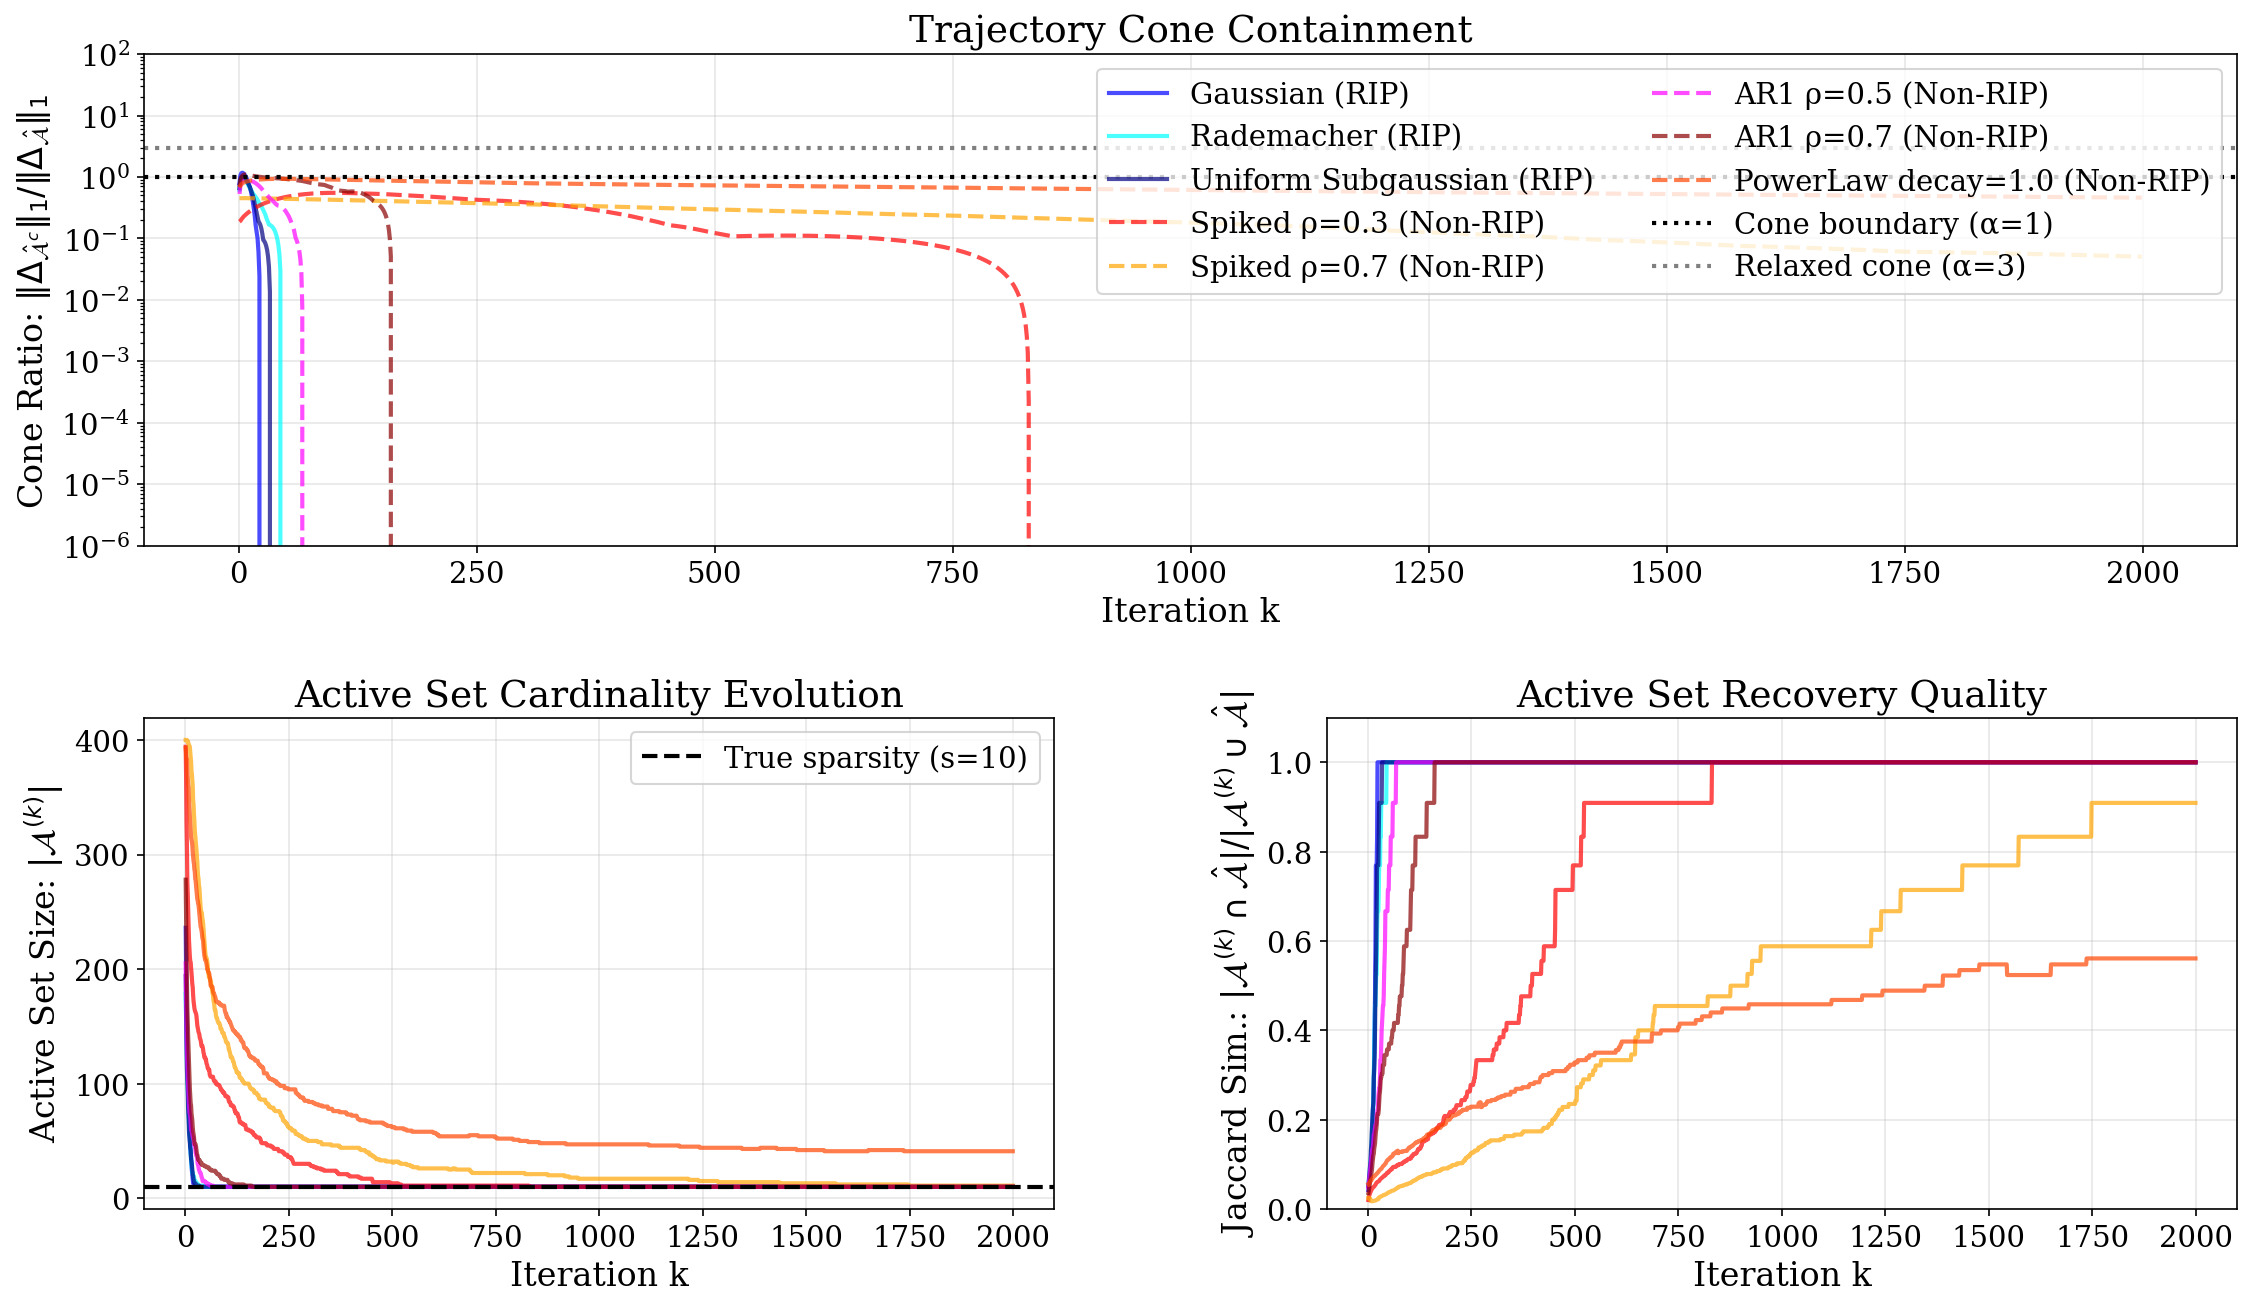
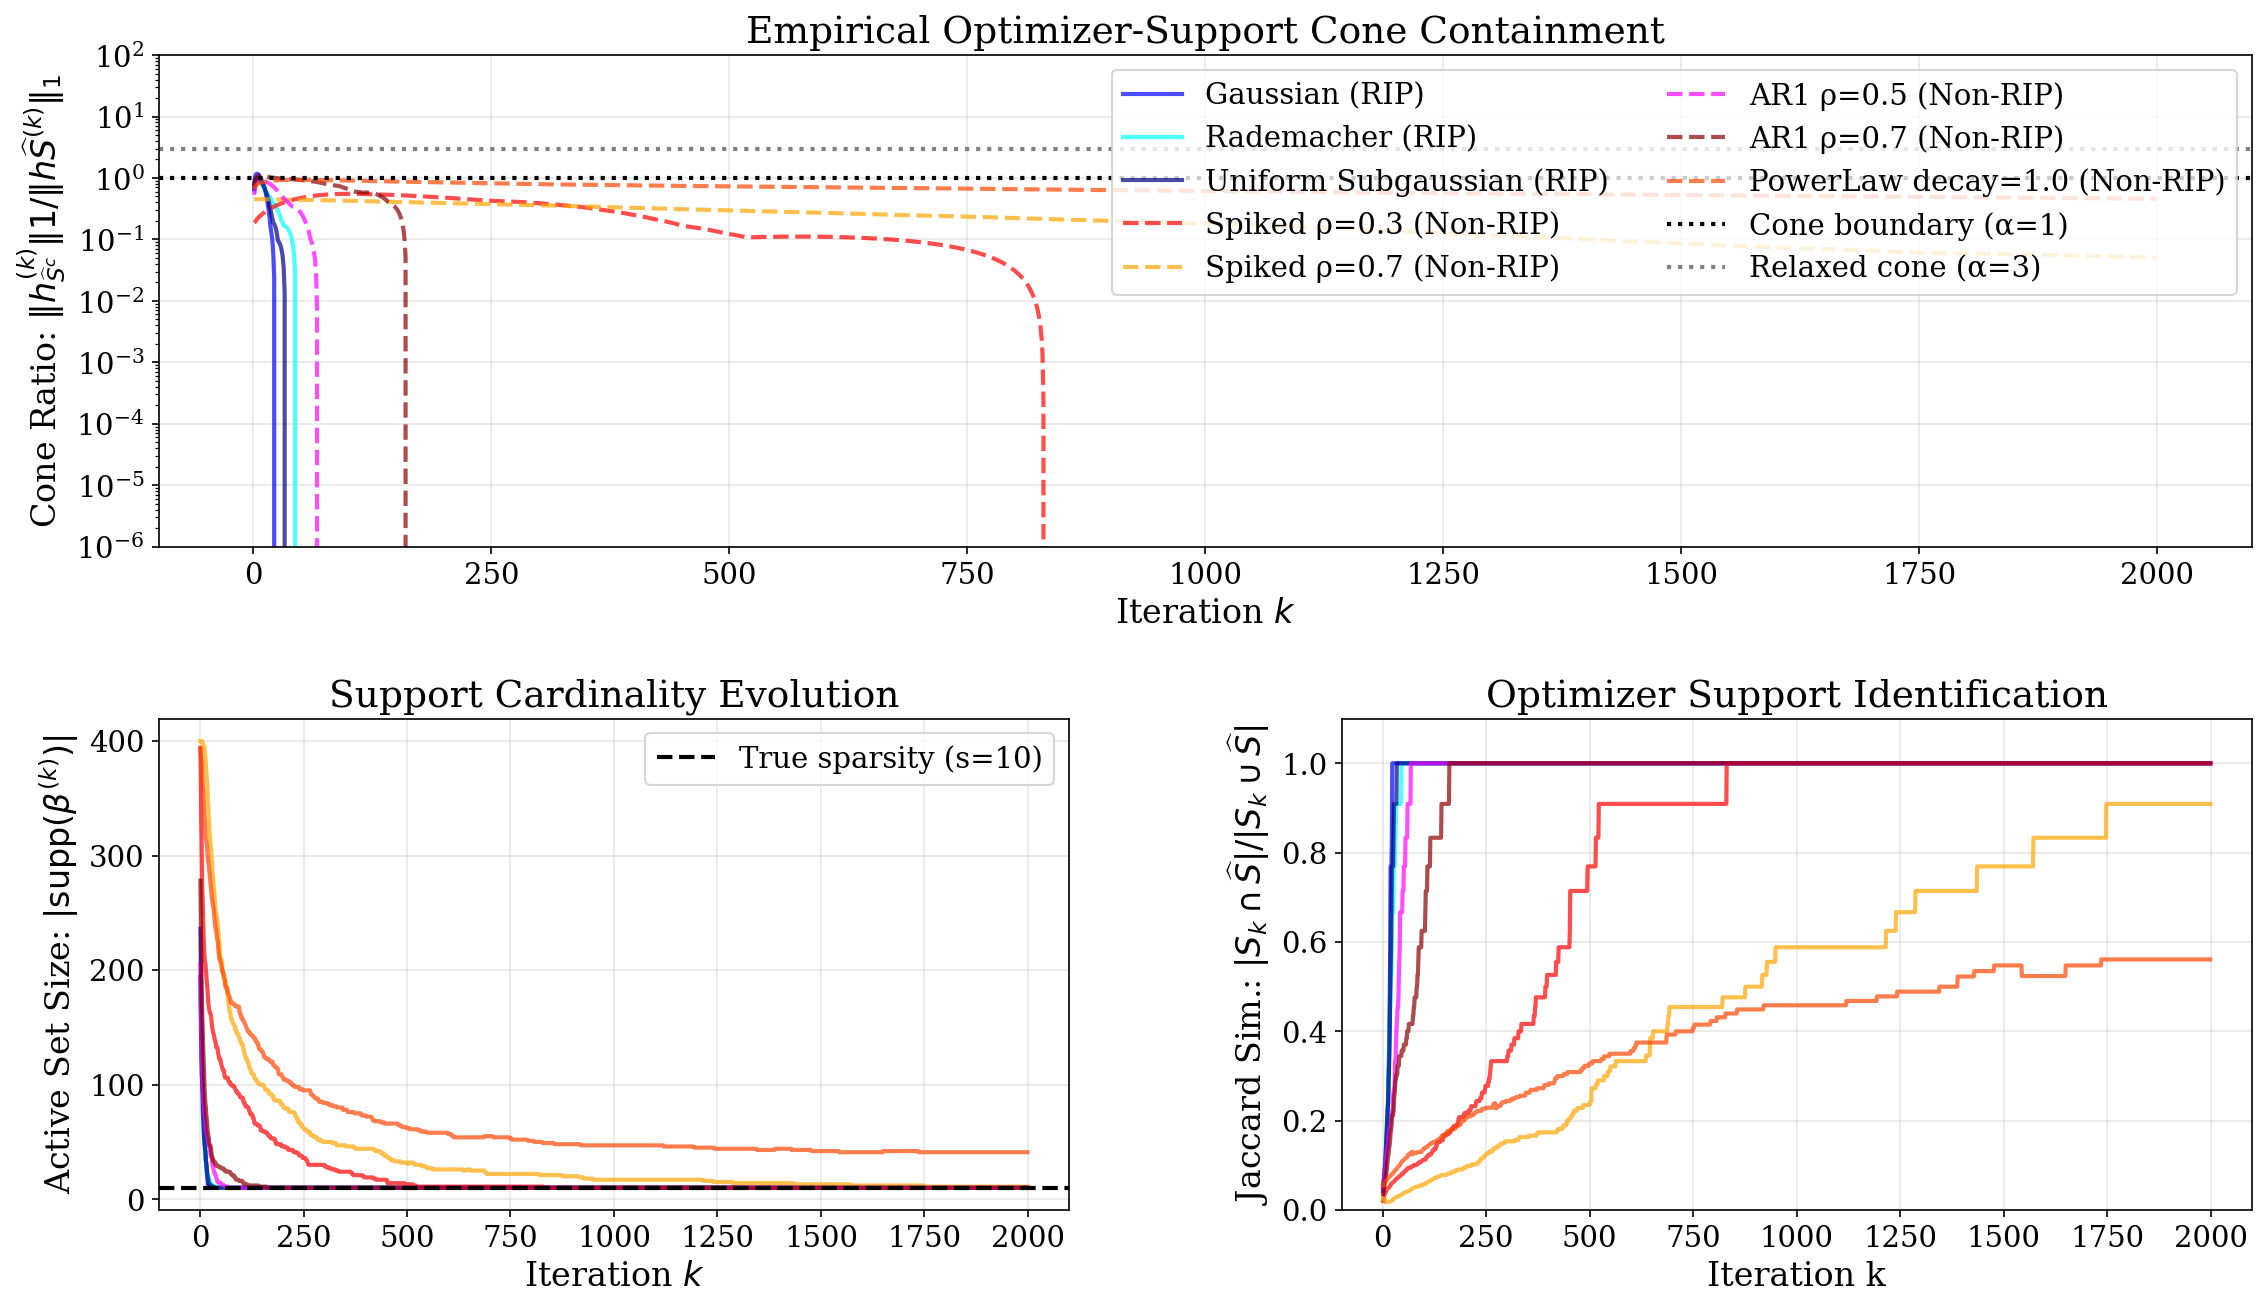
new notation for trajectory restricted figure

diff --git a/experiments/convergence/trajectory_cone_containment.py b/experiments/convergence/trajectory_cone_containment.py
@@ -139,9 +139,9 @@ def plot_trajectory_analysis(results_dict, true_sparsity):
     ax1.axhline(3.0, color='gray', linestyle=':', linewidth=2, 
                label='Relaxed cone (α=3)')
     
-    ax1.set_xlabel('Iteration k')
-    ax1.set_ylabel('Cone Ratio: $\\|\\Delta_{\\hat{\\mathcal{A}}^c}\\|_1 / \\|\\Delta_{\\hat{\\mathcal{A}}}\\|_1$')
-    ax1.set_title('Trajectory Cone Containment')
+    ax1.set_xlabel('Iteration $k$')
+    ax1.set_ylabel('Cone Ratio: $\|h_{\widehat S^c}^{(k)}\|1/\|h{\widehat S}^{(k)}\|_1$')
+    ax1.set_title('Empirical Optimizer-Support Cone Containment')
     ax1.legend(loc='upper right', ncol=2, bbox_to_anchor=(1, 1))
     ax1.grid(True, alpha=0.3)
     ax1.set_ylim([1e-6, 1e2])
@@ -158,9 +158,9 @@ def plot_trajectory_analysis(results_dict, true_sparsity):
     ax2.axhline(true_sparsity, color='black', 
                linestyle='--', linewidth=2, label=f'True sparsity (s={true_sparsity})')
     
-    ax2.set_xlabel('Iteration k')
-    ax2.set_ylabel('Active Set Size: $|\\mathcal{A}^{(k)}|$')
-    ax2.set_title('Active Set Cardinality Evolution')
+    ax2.set_xlabel('Iteration $k$')
+    ax2.set_ylabel(r'Active Set Size: $|\operatorname{supp}(\beta^{(k)})|$')
+    ax2.set_title('Support Cardinality Evolution')
     ax2.legend(loc='best')
     ax2.grid(True, alpha=0.3)
     
@@ -173,8 +173,8 @@ def plot_trajectory_analysis(results_dict, true_sparsity):
                 alpha=0.7, linewidth=2)
     
     ax3.set_xlabel('Iteration k')
-    ax3.set_ylabel('Jaccard Sim.: $|\\mathcal{A}^{(k)} \\cap \\hat{\\mathcal{A}}| / |\\mathcal{A}^{(k)} \\cup \\hat{\\mathcal{A}}|$')
-    ax3.set_title('Active Set Recovery Quality')
+    ax3.set_ylabel(r'Jaccard Sim.: $|S_k \cap \widehat S| / |S_k \cup \widehat S|$')
+    ax3.set_title('Optimizer Support Identification')
     ax3.grid(True, alpha=0.3)
     ax3.set_ylim([0, 1.1])
     
